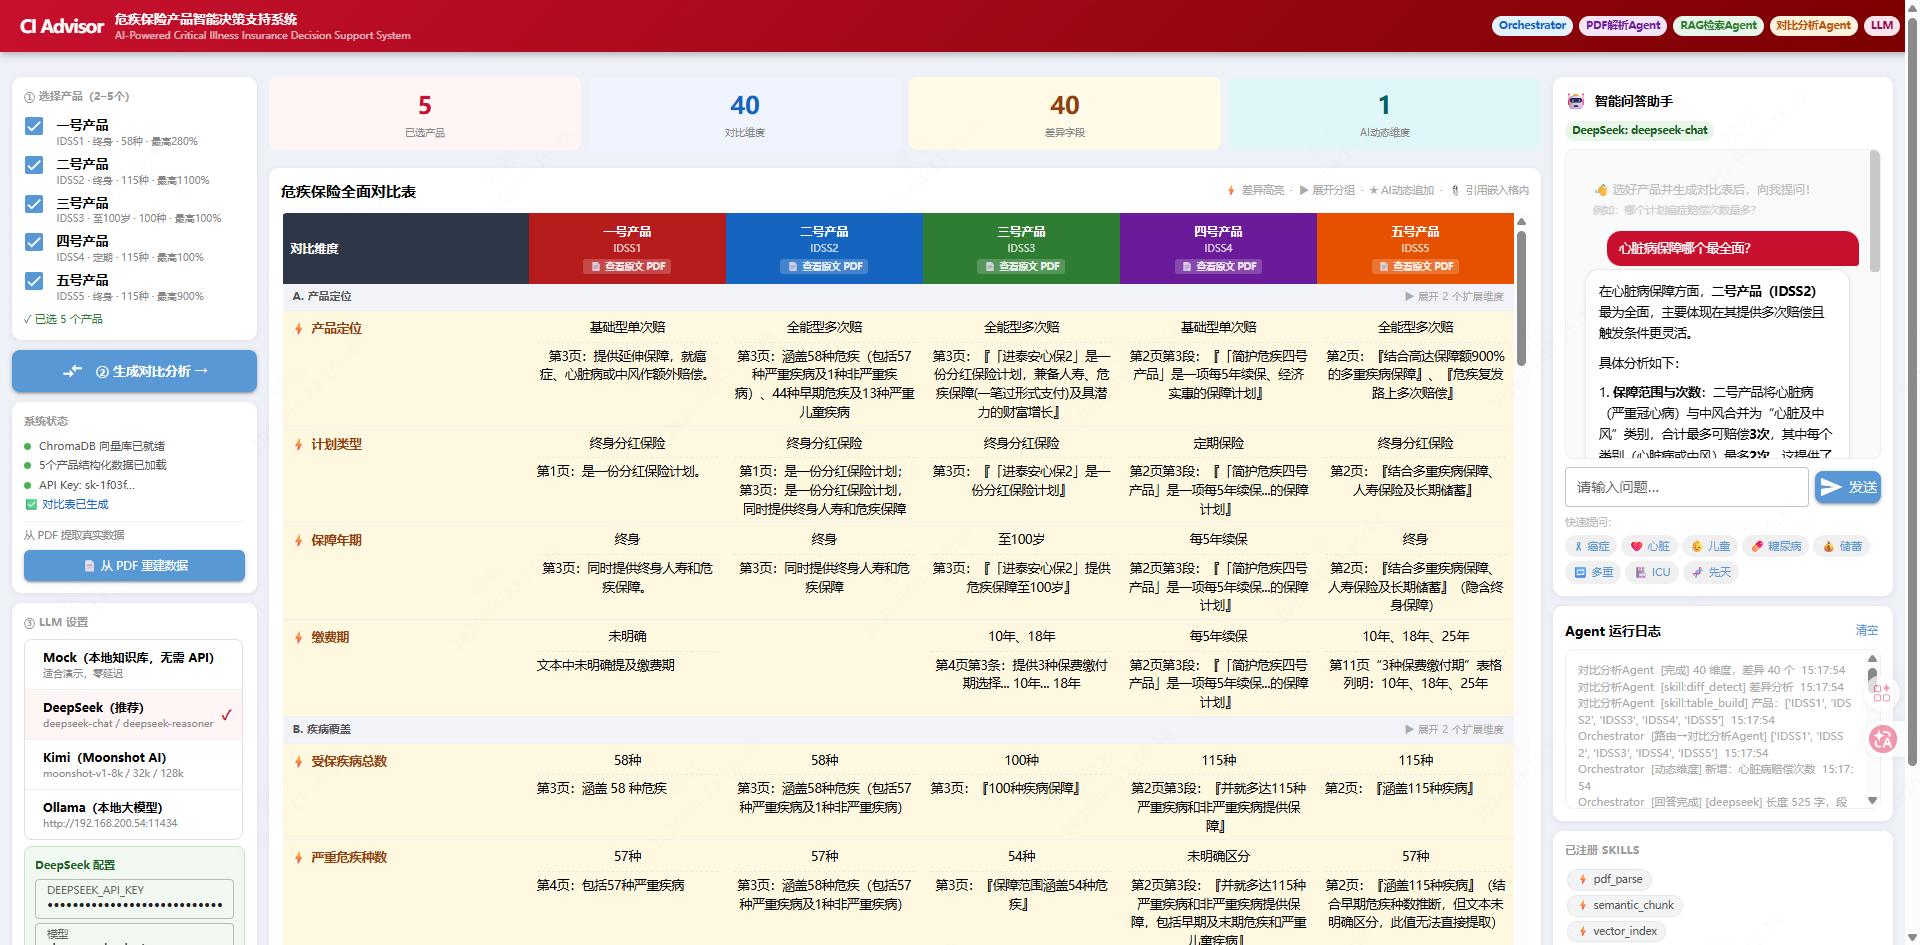
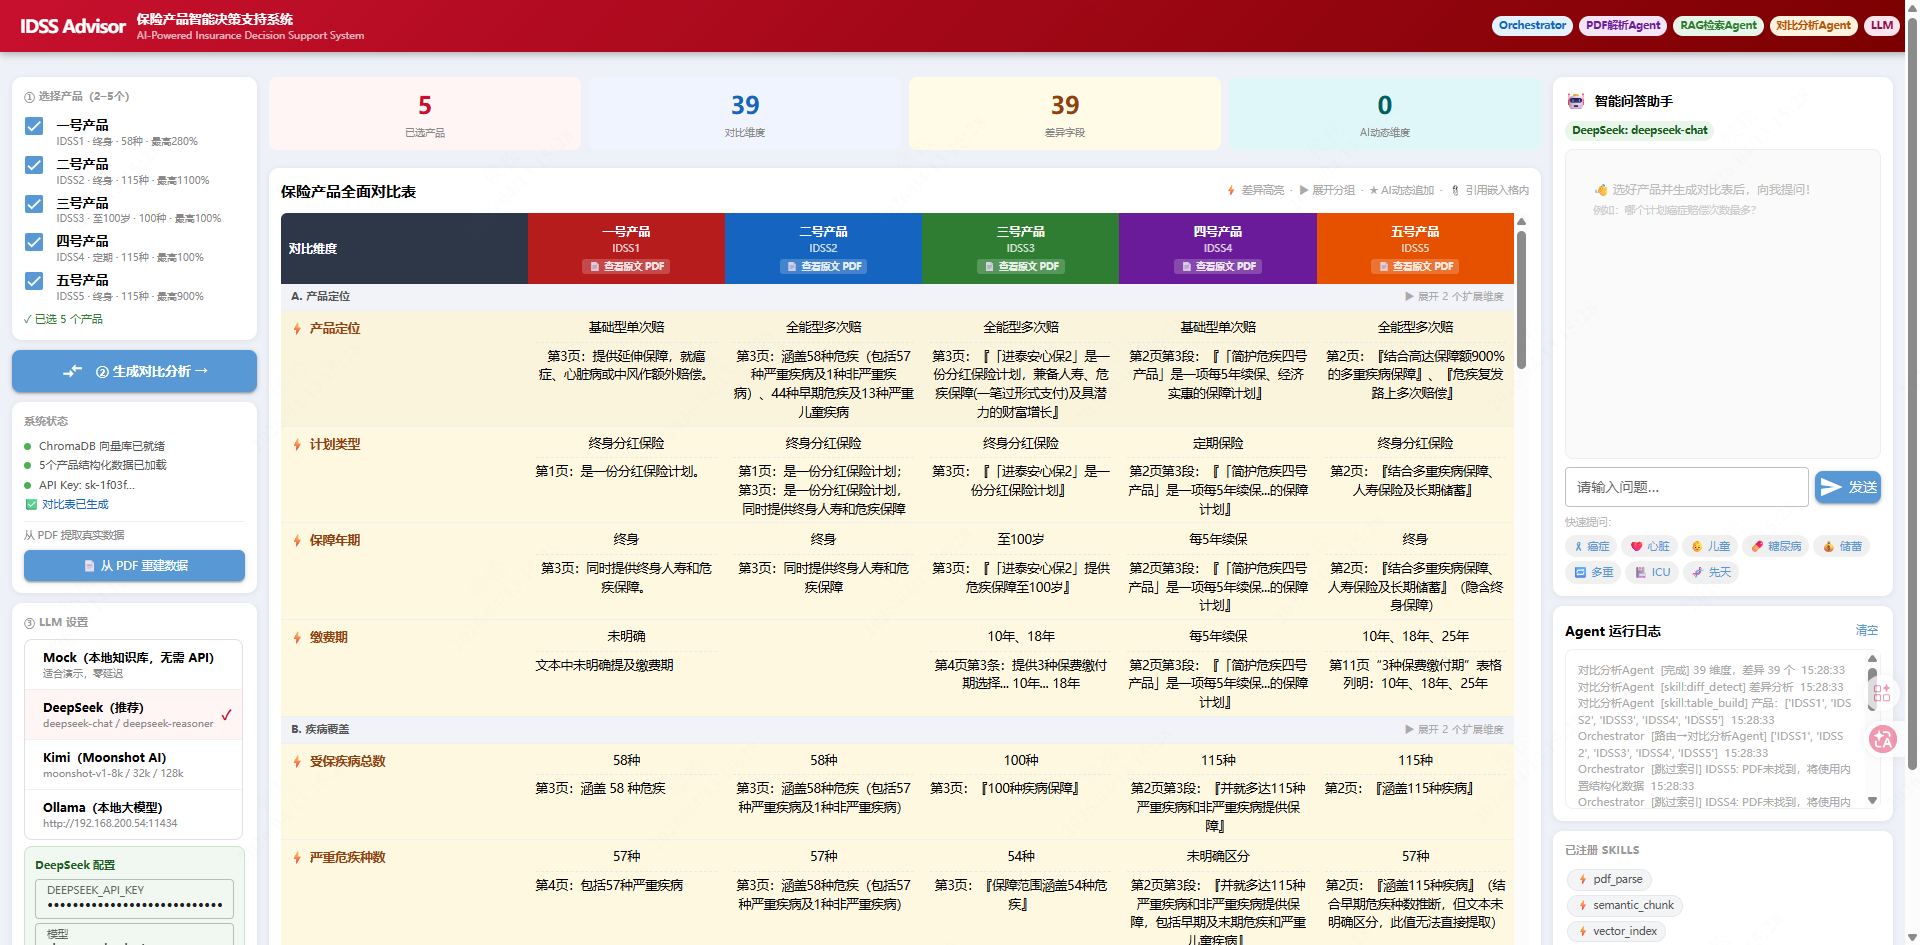
Add files via upload

diff --git a/app.py b/app.py
@@ -1,5 +1,5 @@
 """
-CI Insurance Decision Support System
+IDSS Insurance Decision Support System
 生产版 — NiceGUI 主界面
 
 运行：
@@ -1052,10 +1052,10 @@ def main_page():
     # ── HEADER ────────────────────────────────────────────────────────────
     ui.html(
         '<div class="hdr">'
-        '<span class="logo">CI Advisor</span>'
+        '<span class="logo">IDSS Advisor</span>'
         '<div class="hdr-title">'
-        '<span class="t1">危疾保险产品智能决策支持系统</span>'
-        '<span class="t2">AI-Powered Critical Illness Insurance Decision Support System</span>'
+        '<span class="t1">保险产品智能决策支持系统</span>'
+        '<span class="t2">AI-Powered Insurance Decision Support System</span>'
         '</div>'
         '<div class="hdr-tags">'
         '<span class="atag t-orch">Orchestrator</span>'
@@ -1157,7 +1157,7 @@ def main_page():
                     '<div style="display:flex;align-items:center;'
                     'justify-content:space-between;margin-bottom:10px;flex-wrap:wrap;gap:6px">'
                     '<span style="font-size:15px;font-weight:700;white-space:nowrap">'
-                    '危疾保险全面对比表</span>'
+                    '保险产品全面对比表</span>'
                     '<span style="font-size:10.5px;color:#aaa">'
                     '⚡ 差异高亮 &nbsp;·&nbsp; ▶ 展开分组 &nbsp;·&nbsp; '
                     '★ AI动态追加 &nbsp;·&nbsp; 📎 引用嵌入格内</span>'
@@ -1299,7 +1299,7 @@ if __name__ in {"__main__", "__mp_main__"}:
         asyncio.set_event_loop(_main_loop)
 
     print("=" * 55)
-    print("CI Insurance Decision Support System")
+    print("IDSS Insurance Decision Support System")
     print(f"LLM Backend : {LLMConfig.backend.value} ({LLMConfig.get_effective_model()})")
     print("访问地址    : http://localhost:8080")
     print("PDF 链接    : http://localhost:8080/static/pdfs/<filename>")
@@ -1307,7 +1307,7 @@ if __name__ in {"__main__", "__mp_main__"}:
     ui.run(
         host="0.0.0.0",
         port=8080,
-        title="危疾保险智能决策系统",
+        title="保险产品智能决策系统",
         favicon="🏥",
         reload=False,
         show=False,
